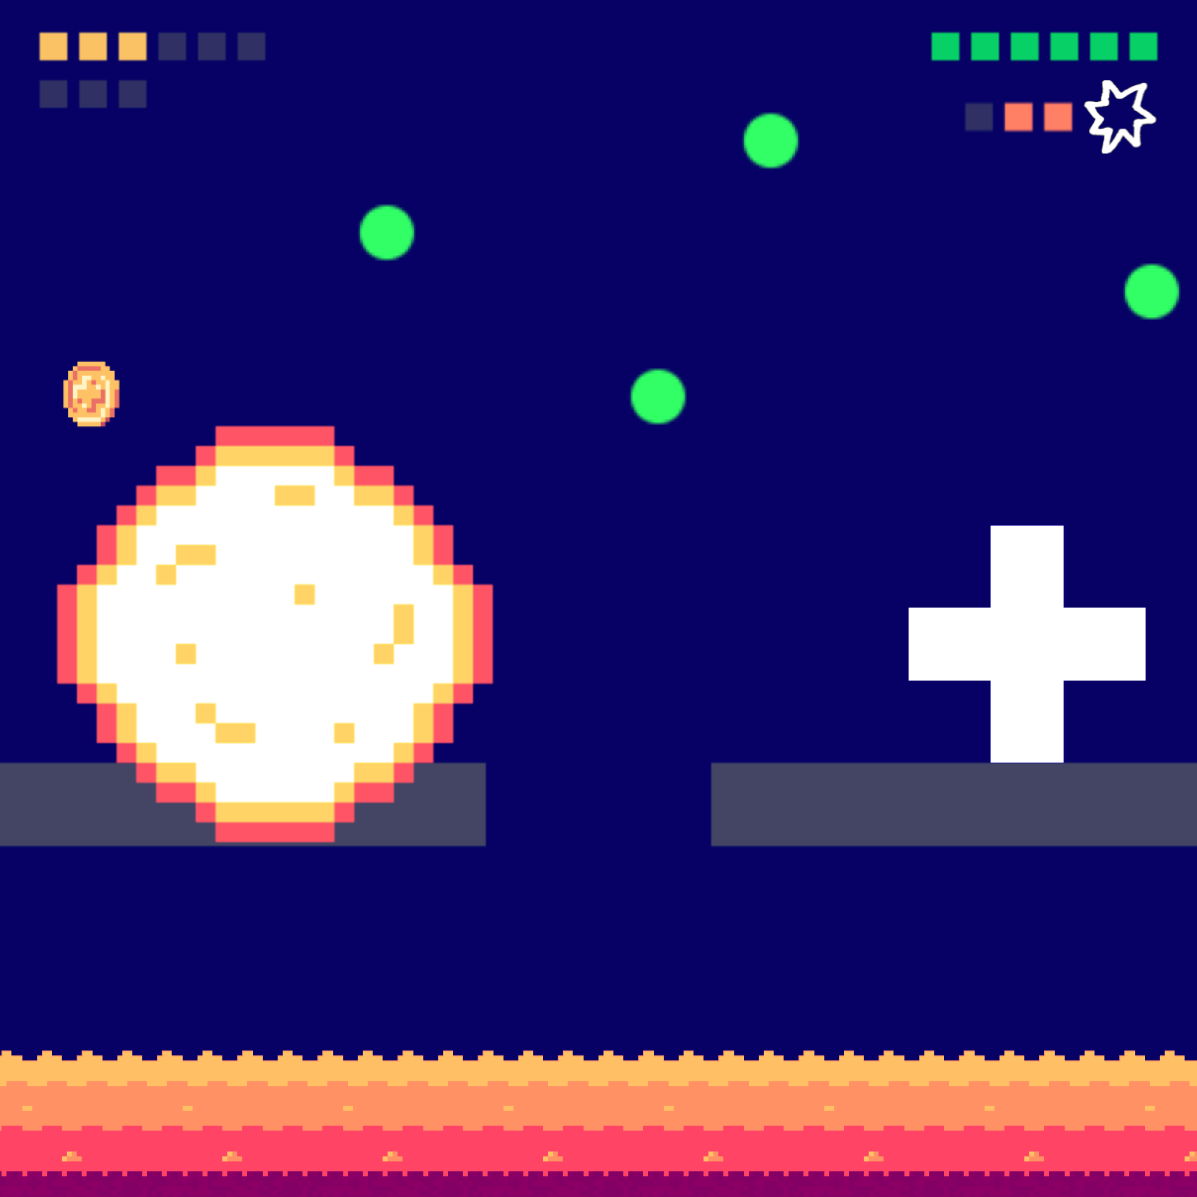
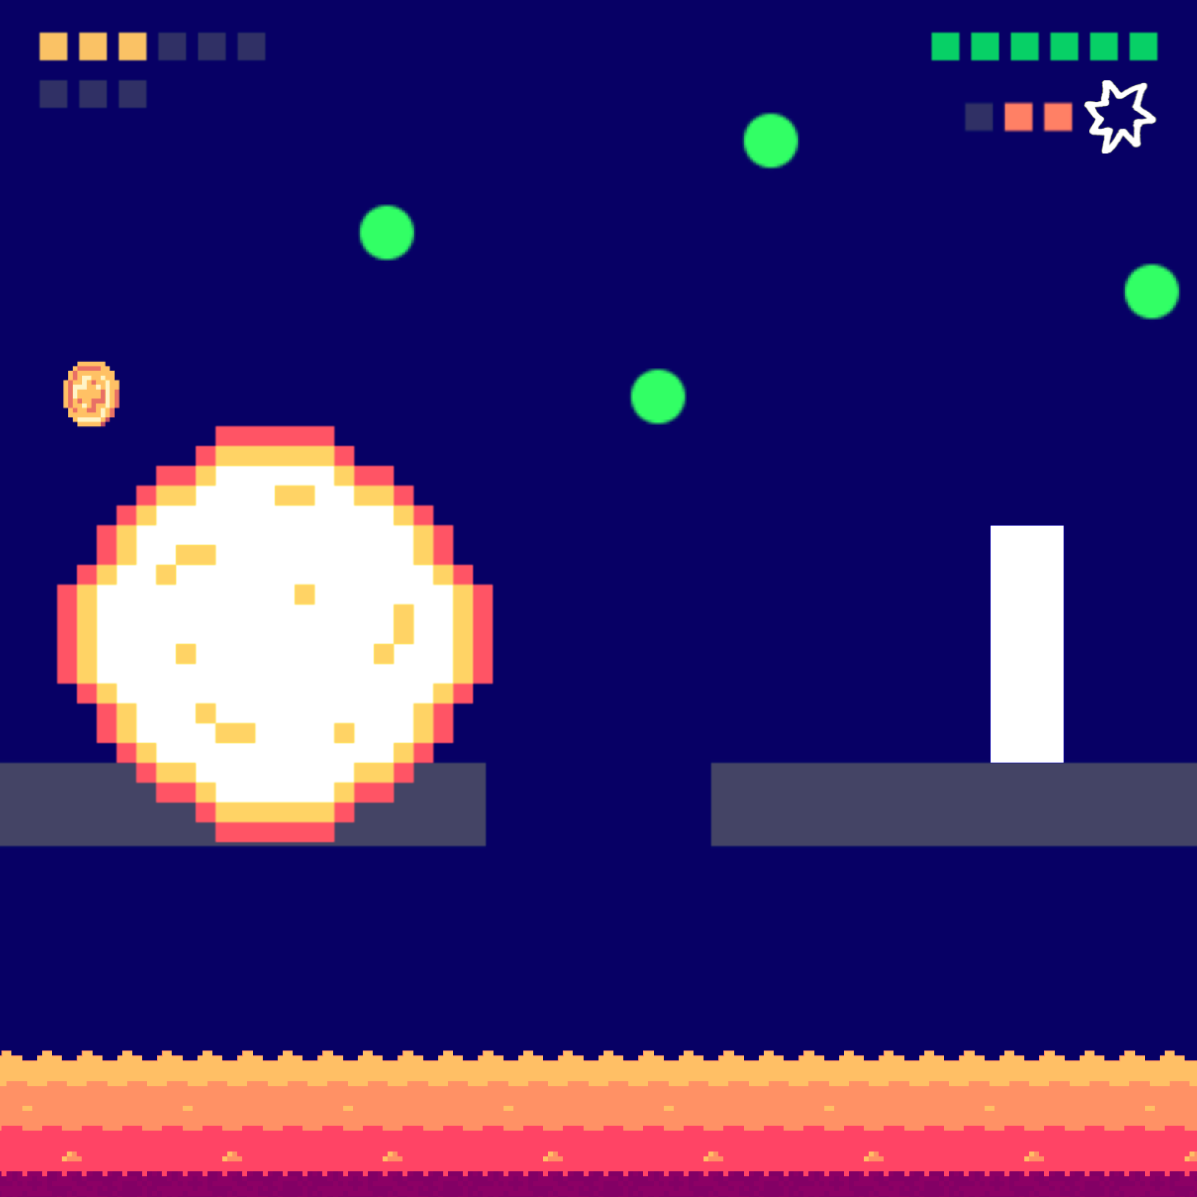
snowthrow img update

Changed region(s): [[0.8655, 0.4946, 0.9582, 0.5873], [0.7419, 0.4946, 0.8346, 0.5873]]

diff --git a/app/page.tsx b/app/page.tsx
@@ -16,7 +16,7 @@ const games: Game[] = [
   {
     href: "/snow-throw",
     title: "Snow Throw",
-    thumbnail: "/images/game-snowthrow-2.png",
+    thumbnail: "/images/game-snowthrow.png",
   },
   {
     href: "/dynamite",
